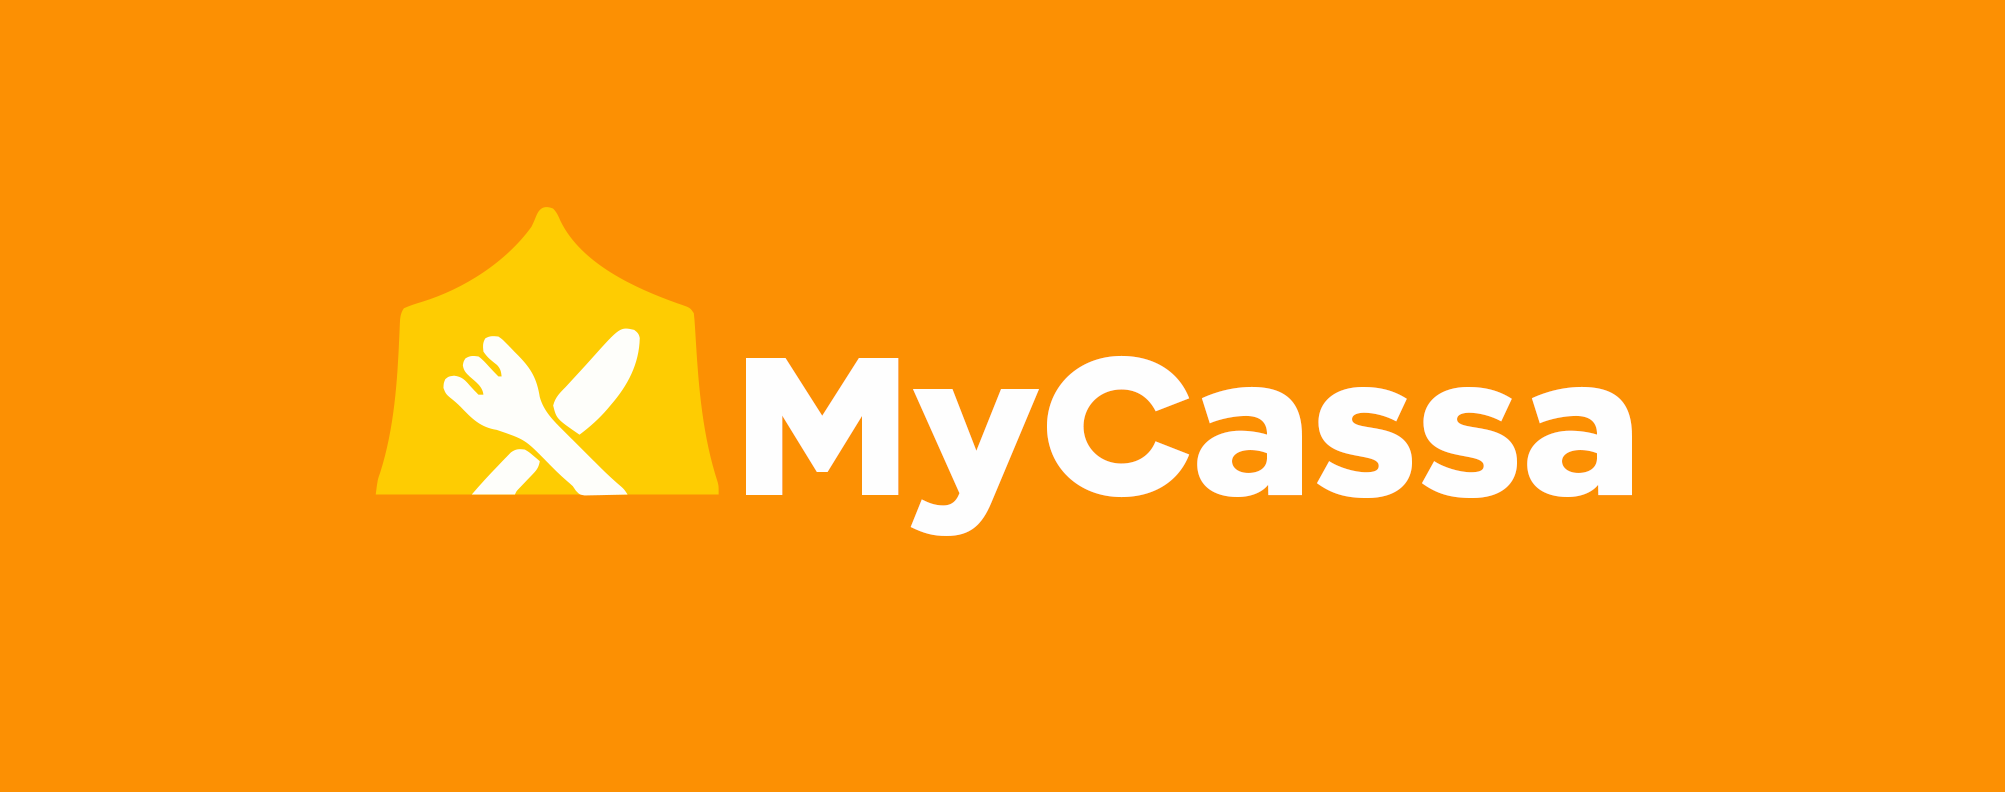
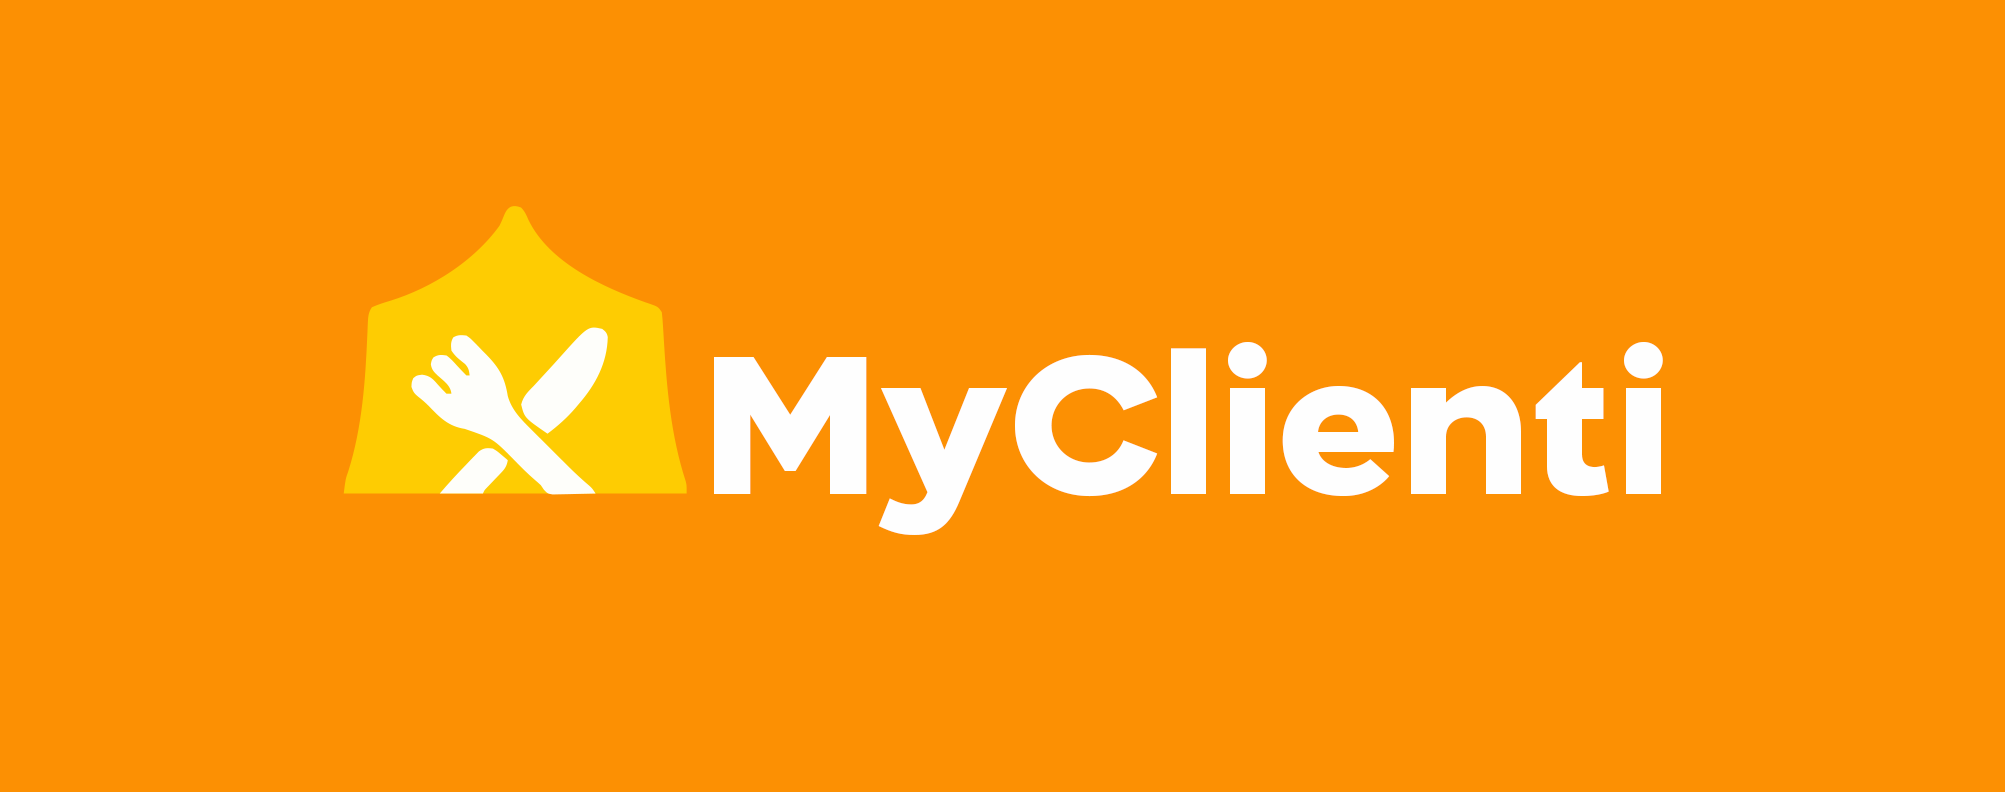
Readme updated

Changed region(s): [[0.1546, 0.3636, 0.8349, 0.697], [0.2165, 0.2424, 0.3092, 0.3636]]

diff --git a/README.md b/README.md
@@ -1,4 +1,11 @@
-# MySagra Customer App 🍕
+<div align="center">
+
+<p align="center">
+  <img src="public/banner.png" alt="Banner" width="100%" />
+</p>
+
+
+# MyClienti 🍕
 
 [![Build and Push Docker Image](https://github.com/mysagra/myclienti/actions/workflows/publish.yml/badge.svg)](https://github.com/mysagra/myclienti/actions/workflows/publish.yml)
 [![License: GPL v3](https://img.shields.io/badge/License-GPLv3-blue.svg)](https://www.gnu.org/licenses/gpl-3.0)
